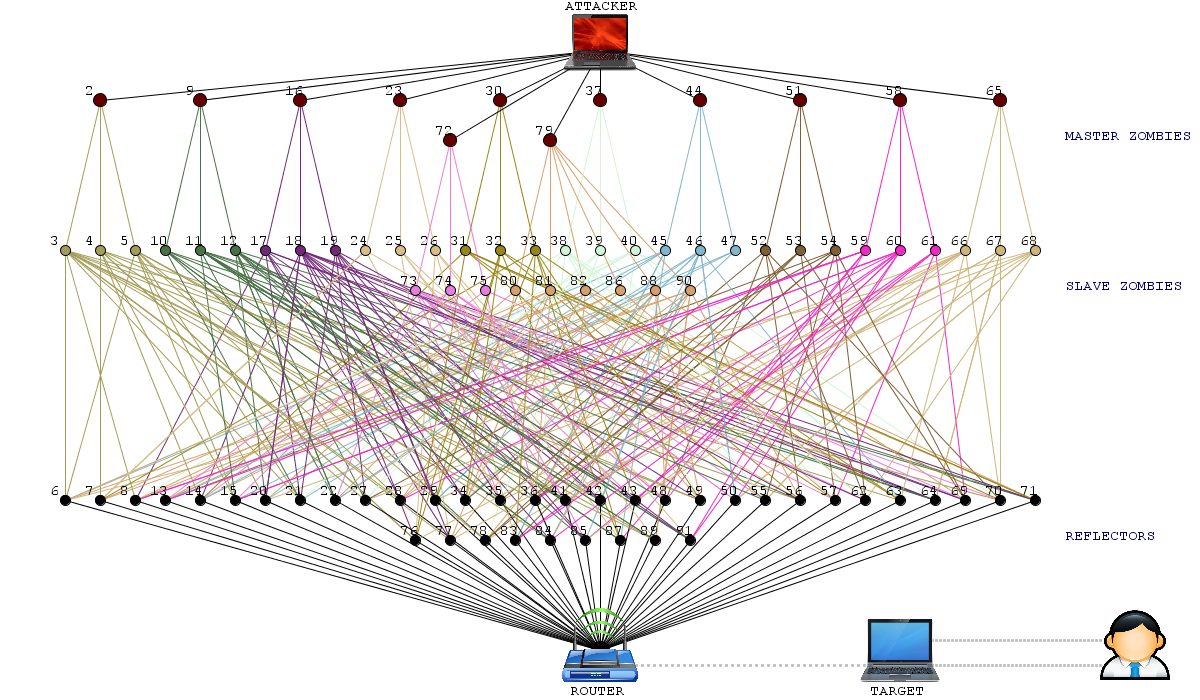
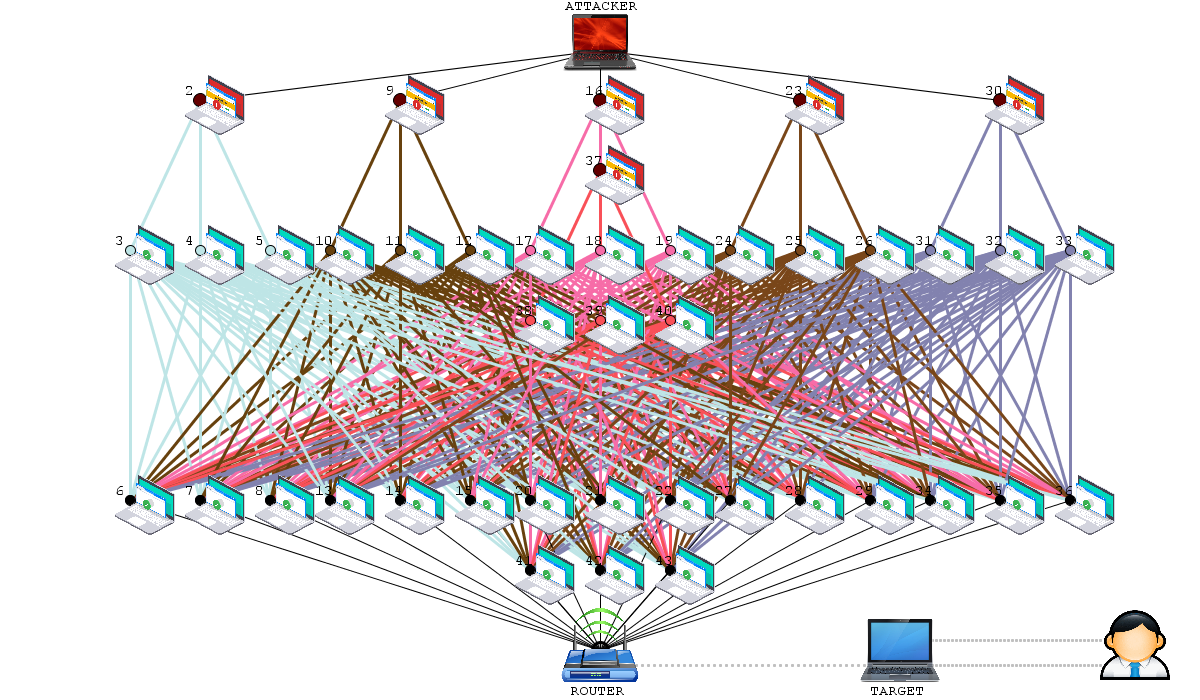
fixed coordinates for A45  network

diff --git a/src/graphic/ProcessingSimulation.java b/src/graphic/ProcessingSimulation.java
@@ -509,7 +509,12 @@ public class ProcessingSimulation extends PApplet{
 	private void drawPackage_Helper(Package pack) {
 		float x = pack.getX();
 		float y = pack.getY();
-
+		
+		float fixedX = pack.getFixedX();
+		float fixedY = pack.getFixedY();
+		
+		boolean fixedPackage = false;
+		
 		// to speed up more 
 		if (travellingPackages.size() >= 20) {
 			speedUp = 25;
@@ -522,11 +527,13 @@ public class ProcessingSimulation extends PApplet{
 
 		float speedX = 0;
 		float speedY = 1;
+		boolean minus = false;
 
 		if (pack.getEdge().getNodeFrom().getX() > pack.getEdge().getNodeTo().getX()) {
 			speedX = (float)(pack.getEdge().getNodeFrom().getX() - pack.getEdge().getNodeTo().getX()) / 
 					(float)(pack.getEdge().getNodeTo().getY() - pack.getEdge().getNodeFrom().getY());
 			x = x - speedX*speedUp;
+			minus = true;
 		}
 		else if (pack.getEdge().getNodeFrom().getX() < pack.getEdge().getNodeTo().getX()) {
 			speedX = (float)(pack.getEdge().getNodeTo().getX() - pack.getEdge().getNodeFrom().getX()) / 
@@ -538,27 +545,41 @@ public class ProcessingSimulation extends PApplet{
 
 		pack.setX(x);
 		pack.setY(y);
-
-		if (DDoSSimulation.globalGraphTypeU45) {
-			if (DDoSSimulation.globalDDOSTypeDirect == true || 
-					(pack.getEdge().getNodeFrom().getComputer().getType() == Computer.MASTER_SLAVE || 
-					pack.getEdge().getNodeFrom().getComputer().getType() == Computer.MASTER)) {
-				stroke(0);
-				fill(175);
-
-				PImage img;
-				if ((pack.getType() == Package.EMAIL_VIRUS) ||(pack.getType() == Package.COMMAND) ) 
-					img = loadImage("email2.png");
-				else if ((pack.getType() == Package.SYN_PACKAGE || pack.getType() == Package.ICMP_PACKAGE ) && pack.getEdge().getNodeTo().getComputer().getType() == Computer.TARGET)
-					img = loadImage("toTarget.png");
-				else 
-					img = loadImage("spoofedPackage.png");
-
-				image(img, x-15, y, PIXEL_RANGE_NODE/2, PIXEL_RANGE_NODE/2); 
+		
+		//for real simulation the packages travel on edges
+		if (!DDoSSimulation.globalGraphTypeU45 || !DDoSSimulation.globalDDOSTypeDirect) {
+			blinkEdges(pack); 
+			fixedPackage= true;
+			if (fixedX == 0 || fixedY == 0) {
+				Random rand = new Random();
+				int typeFrom = pack.getEdge().getNodeFrom().getComputer().getType();
+				
+				int high = typeFrom == Computer.MASTER ? 40: typeFrom == Computer.MASTER_SLAVE ? 70 : typeFrom == Computer.SLAVE ? 170 : 45;
+				int low = 12;
+				float speed = rand.nextInt(high - low) + low;
+				if (minus) fixedX = x - speedX * speed; 
+				else fixedX = x + speedX * speed; 
+				fixedY = y+ speedY* speed;
+				pack.setFixedX(fixedX);
+				pack.setFixedY(fixedY);
 			}
-			else blinkEdges(pack);
 		}
-		else blinkEdges(pack);
+		
+		stroke(0);
+		fill(175);
+
+		PImage img;
+		if ((pack.getType() == Package.EMAIL_VIRUS) ||(pack.getType() == Package.COMMAND) ) 
+			img = loadImage("email2.png");
+		else if ((pack.getType() == Package.SYN_PACKAGE || pack.getType() == Package.ICMP_PACKAGE ) && pack.getEdge().getNodeTo().getComputer().getType() == Computer.TARGET)
+			img = loadImage("toTarget.png");
+		else 
+			img = loadImage("spoofedPackage.png");
+		
+		if (fixedPackage)
+			image(img, fixedX-15, fixedY, PIXEL_RANGE_NODE/2, PIXEL_RANGE_NODE/2); 
+		else
+			image(img, x-15, y, PIXEL_RANGE_NODE/2, PIXEL_RANGE_NODE/2);
 	}
 
 	private void blinkEdges(Package pack) {
@@ -865,8 +886,13 @@ public class ProcessingSimulation extends PApplet{
 	public void checkClickedPackages(int X, int Y) {
 
 		for (Package p : travellingPackages) {
-			if ((X >= p.getX()-10) && (X <= p.getX()+10) &&
-					(Y >= p.getY()-10) && (Y <= p.getY()+10)) {
+			float x,y;
+			
+			if (!DDoSSimulation.globalGraphTypeU45) {x = p.getFixedX(); y = p.getFixedY();}
+			else {x = p.getX(); y = p.getY();}
+			
+			if ((X >= x - 10) && (X <= x + 10) &&
+					(Y >= y - 10) && (Y <= y + 10)) {
 				//clicked on pack -> show details
 				if (p.getPacket() != null)
 					GUIcontrol.makePacketWindow(p.getPacket().toString());

diff --git a/src/graphic/DDoSSimulation.java b/src/graphic/DDoSSimulation.java
@@ -178,10 +178,10 @@ public class DDoSSimulation {
 		memoryTF.setText("2048");
 		packagesizeTF.setText("32");
 												
-		String[] choicesDirectU45 = { "13", "17", "20", "15", "33", "42" };
-		String[] choicesDirectA45 = { "60", "70", "80", "90", "130", "190" };
-		String[] choicesReflectedU45 = { "13", "17", "20", "15", "33", "42" };
-		String[] choicesReflectedA45 = { "60", "70", "80", "90", "130", "190" };
+		String[] choicesDirectU45 = { "18", "21", "27", "33", "39", "42" };
+		String[] choicesDirectA45 = { "56", "60", "80", "128", "140", "160" };
+		String[] choicesReflectedU45 = { "7", "14", "21", "28", "35", "42" };
+		String[] choicesReflectedA45 = { "49", "70", "84", "105", "133", "161" };
 		numSlavesChoice = new Choice();
 		
 		String[] choices = globalDDOSTypeDirect == true ?  globalGraphTypeU45 == true?  choicesDirectU45 :  choicesDirectA45 : 

diff --git a/src/bin/Package.java b/src/bin/Package.java
@@ -11,6 +11,7 @@ public class Package {
 	private Edge edge;
 	private int size, type;
 	private float cordX = 0, cordY = 0;
+	private float fixedX = 0, fixedY = 0;
 	private int status = Package.INIT;
 	private long timeStartSending = 0, timeReceived = 0;
 	
@@ -63,4 +64,12 @@ public class Package {
 	public int getType() { return type; }
 	
 	public int getSize() { return size; }
+
+	public float getFixedX() {return fixedX;}
+
+	public void setFixedX(float fixedX) {this.fixedX = fixedX;}
+
+	public float getFixedY() {return fixedY;}
+
+	public void setFixedY(float fixedY) {this.fixedY = fixedY;}
 }
